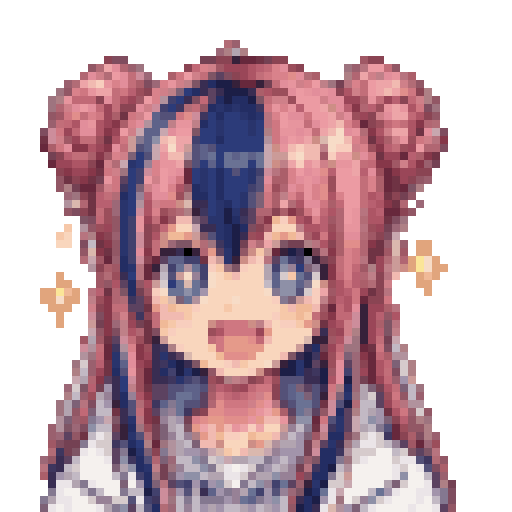
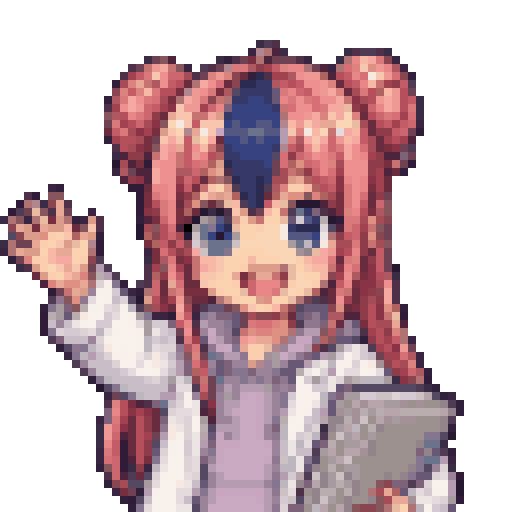
Add files via upload

diff --git a/docs/assets/chars/index.html b/docs/assets/chars/index.html
@@ -12,7 +12,7 @@
         <meta name="author" content="안상선 (Ahn, Sang-Sun)">
       
       
-        <link rel="canonical" href="https://adminmrobo.github.io/learn-python-by-doing/assets/chars/">
+        <link rel="canonical" href="https://adminmrobo.github.io/learn-python-by-doing_Korean/assets/chars/">
       
       
       
@@ -193,13 +193,13 @@
     
     
       <div class="md-header__source">
-        <a href="https://github.com/adminmrobo/learn-python-by-doing" title="저장소로 이동" class="md-source" data-md-component="source">
+        <a href="https://github.com/adminmrobo/learn-python-by-doing_Korean" title="저장소로 이동" class="md-source" data-md-component="source">
   <div class="md-source__icon md-icon">
     
     <svg xmlns="http://www.w3.org/2000/svg" viewBox="0 0 496 512"><!--! Font Awesome Free 6.6.0 by @fontawesome - https://fontawesome.com License - https://fontawesome.com/license/free (Icons: CC BY 4.0, Fonts: SIL OFL 1.1, Code: MIT License) Copyright 2024 Fonticons, Inc.--><path d="M165.9 397.4c0 2-2.3 3.6-5.2 3.6-3.3.3-5.6-1.3-5.6-3.6 0-2 2.3-3.6 5.2-3.6 3-.3 5.6 1.3 5.6 3.6m-31.1-4.5c-.7 2 1.3 4.3 4.3 4.9 2.6 1 5.6 0 6.2-2s-1.3-4.3-4.3-5.2c-2.6-.7-5.5.3-6.2 2.3m44.2-1.7c-2.9.7-4.9 2.6-4.6 4.9.3 2 2.9 3.3 5.9 2.6 2.9-.7 4.9-2.6 4.6-4.6-.3-1.9-3-3.2-5.9-2.9M244.8 8C106.1 8 0 113.3 0 252c0 110.9 69.8 205.8 169.5 239.2 12.8 2.3 17.3-5.6 17.3-12.1 0-6.2-.3-40.4-.3-61.4 0 0-70 15-84.7-29.8 0 0-11.4-29.1-27.8-36.6 0 0-22.9-15.7 1.6-15.4 0 0 24.9 2 38.6 25.8 21.9 38.6 58.6 27.5 72.9 20.9 2.3-16 8.8-27.1 16-33.7-55.9-6.2-112.3-14.3-112.3-110.5 0-27.5 7.6-41.3 23.6-58.9-2.6-6.5-11.1-33.3 2.6-67.9 20.9-6.5 69 27 69 27 20-5.6 41.5-8.5 62.8-8.5s42.8 2.9 62.8 8.5c0 0 48.1-33.6 69-27 13.7 34.7 5.2 61.4 2.6 67.9 16 17.7 25.8 31.5 25.8 58.9 0 96.5-58.9 104.2-114.8 110.5 9.2 7.9 17 22.9 17 46.4 0 33.7-.3 75.4-.3 83.6 0 6.5 4.6 14.4 17.3 12.1C428.2 457.8 496 362.9 496 252 496 113.3 383.5 8 244.8 8M97.2 352.9c-1.3 1-1 3.3.7 5.2 1.6 1.6 3.9 2.3 5.2 1 1.3-1 1-3.3-.7-5.2-1.6-1.6-3.9-2.3-5.2-1m-10.8-8.1c-.7 1.3.3 2.9 2.3 3.9 1.6 1 3.6.7 4.3-.7.7-1.3-.3-2.9-2.3-3.9-2-.6-3.6-.3-4.3.7m32.4 35.6c-1.6 1.3-1 4.3 1.3 6.2 2.3 2.3 5.2 2.6 6.5 1 1.3-1.3.7-4.3-1.3-6.2-2.2-2.3-5.2-2.6-6.5-1m-11.4-14.7c-1.6 1-1.6 3.6 0 5.9s4.3 3.3 5.6 2.3c1.6-1.3 1.6-3.9 0-6.2-1.4-2.3-4-3.3-5.6-2"/></svg>
   </div>
   <div class="md-source__repository">
-    learn-python-by-doing
+    learn-python-by-doing_Korean
   </div>
 </a>
       </div>
@@ -239,13 +239,13 @@
   </label>
   
     <div class="md-nav__source">
-      <a href="https://github.com/adminmrobo/learn-python-by-doing" title="저장소로 이동" class="md-source" data-md-component="source">
+      <a href="https://github.com/adminmrobo/learn-python-by-doing_Korean" title="저장소로 이동" class="md-source" data-md-component="source">
   <div class="md-source__icon md-icon">
     
     <svg xmlns="http://www.w3.org/2000/svg" viewBox="0 0 496 512"><!--! Font Awesome Free 6.6.0 by @fontawesome - https://fontawesome.com License - https://fontawesome.com/license/free (Icons: CC BY 4.0, Fonts: SIL OFL 1.1, Code: MIT License) Copyright 2024 Fonticons, Inc.--><path d="M165.9 397.4c0 2-2.3 3.6-5.2 3.6-3.3.3-5.6-1.3-5.6-3.6 0-2 2.3-3.6 5.2-3.6 3-.3 5.6 1.3 5.6 3.6m-31.1-4.5c-.7 2 1.3 4.3 4.3 4.9 2.6 1 5.6 0 6.2-2s-1.3-4.3-4.3-5.2c-2.6-.7-5.5.3-6.2 2.3m44.2-1.7c-2.9.7-4.9 2.6-4.6 4.9.3 2 2.9 3.3 5.9 2.6 2.9-.7 4.9-2.6 4.6-4.6-.3-1.9-3-3.2-5.9-2.9M244.8 8C106.1 8 0 113.3 0 252c0 110.9 69.8 205.8 169.5 239.2 12.8 2.3 17.3-5.6 17.3-12.1 0-6.2-.3-40.4-.3-61.4 0 0-70 15-84.7-29.8 0 0-11.4-29.1-27.8-36.6 0 0-22.9-15.7 1.6-15.4 0 0 24.9 2 38.6 25.8 21.9 38.6 58.6 27.5 72.9 20.9 2.3-16 8.8-27.1 16-33.7-55.9-6.2-112.3-14.3-112.3-110.5 0-27.5 7.6-41.3 23.6-58.9-2.6-6.5-11.1-33.3 2.6-67.9 20.9-6.5 69 27 69 27 20-5.6 41.5-8.5 62.8-8.5s42.8 2.9 62.8 8.5c0 0 48.1-33.6 69-27 13.7 34.7 5.2 61.4 2.6 67.9 16 17.7 25.8 31.5 25.8 58.9 0 96.5-58.9 104.2-114.8 110.5 9.2 7.9 17 22.9 17 46.4 0 33.7-.3 75.4-.3 83.6 0 6.5 4.6 14.4 17.3 12.1C428.2 457.8 496 362.9 496 252 496 113.3 383.5 8 244.8 8M97.2 352.9c-1.3 1-1 3.3.7 5.2 1.6 1.6 3.9 2.3 5.2 1 1.3-1 1-3.3-.7-5.2-1.6-1.6-3.9-2.3-5.2-1m-10.8-8.1c-.7 1.3.3 2.9 2.3 3.9 1.6 1 3.6.7 4.3-.7.7-1.3-.3-2.9-2.3-3.9-2-.6-3.6-.3-4.3.7m32.4 35.6c-1.6 1.3-1 4.3 1.3 6.2 2.3 2.3 5.2 2.6 6.5 1 1.3-1.3.7-4.3-1.3-6.2-2.2-2.3-5.2-2.6-6.5-1m-11.4-14.7c-1.6 1-1.6 3.6 0 5.9s4.3 3.3 5.6 2.3c1.6-1.3 1.6-3.9 0-6.2-1.4-2.3-4-3.3-5.6-2"/></svg>
   </div>
   <div class="md-source__repository">
-    learn-python-by-doing
+    learn-python-by-doing_Korean
   </div>
 </a>
     </div>
@@ -1737,37 +1737,20 @@
 <tr>
 <th>파일</th>
 <th>출처</th>
-<th>상태</th>
 </tr>
 </thead>
 <tbody>
 <tr>
-<td>doc_smile.png</td>
-<td>AI_image_classification 의 박사 그림, 64×64 격자로 다시 찍은 512×512 초상</td>
-<td>사용 중</td>
-</tr>
-<tr>
-<td>asst_smile.png</td>
-<td>AI_image_classification 의 조수 그림, 같은 64×64 격자 초상</td>
-<td>사용 중</td>
-</tr>
-<tr>
-<td>fly_point.png</td>
-<td>AI_image_classification 의 초파리 그림, 같은 64×64 격자 초상</td>
-<td>사용 중</td>
-</tr>
-<tr>
-<td>robo_idle / thinking / wrong / confused / success.png</td>
-<td>명세서 외형대로 코드로 찍은 임시 픽셀 그림, 같은 64×64 격자 초상</td>
-<td>임시. 정식 그림으로 바꿔 넣으면 된다</td>
+<td>doc_smile.png · asst_smile.png · fly_point.png · robo_idle.png</td>
+<td>작가가 만든 전신 그림 4장(<code>tools/chars_src/</code>)을 같은 64×64 격자 초상으로 다시 찍은 것</td>
 </tr>
 <tr>
 <td>../hero/hero.jpg</td>
-<td>코드로 그린 임시 대표 그림 (1200×800)</td>
-<td>임시. 정식 그림으로 바꿔 넣으면 된다</td>
+<td>작가가 만든 대표 그림 (1536×1024)</td>
 </tr>
 </tbody>
 </table>
+<p>Money-Robo 의 다른 상태(thinking · wrong · confused · success)는 아직 그림이 없어 robo_idle 로 보이고, 테두리 색으로만 상태를 알린다.</p>
 <h2 id="6">더 넣으면 쓰이는 그림 (명세서 §6)<a class="headerlink" href="#6" title="Permanent link">&para;</a></h2>
 <table>
 <thead>
@@ -1782,7 +1765,7 @@
 <td>doc_smile · doc_explain(손바닥 펴서 설명) · doc_judge(지휘봉 들어 판정) · doc_think(턱 괴기) · doc_spark(손에 보랏빛 불꽃)</td>
 </tr>
 <tr>
-<td>세라</td>
+<td>조수</td>
 <td>asst_smile · asst_why(고개 갸웃) · asst_ledger(빈 서류철 펼침) · asst_sweat(땀방울) · asst_spark(반짝이)</td>
 </tr>
 <tr>
@@ -1816,7 +1799,7 @@ centered with small margin, eyes at 25-40% from the top, no text, no letters, no
 <td>chibi scientist with round glasses, black hair with one white streak, white lab coat over a black vest and tie, big smile, <strong>plain navy waistcoat over the lab coat, holding a blank wooden pointer stick</strong></td>
 </tr>
 <tr>
-<td>세라</td>
+<td>조수</td>
 <td>girl researcher with pink hair in two round buns and a navy streak, blue eyes, lavender hoodie under a white lab coat, jeans, <strong>blank ID badge on a lanyard with no text, holding a plain closed ledger folder</strong></td>
 </tr>
 <tr>
@@ -1836,7 +1819,7 @@ same size, plain white background, at least 60px gap between figures:
 (1) ... (2) ... (3) ... (4) ... (5) ...   3000 x 800 px.
 </code></pre></div>
 - 박사: (1) big smile (2) open palm explaining (3) raising the pointer to give a verdict (4) hand on chin thinking (5) purple sparks from the hands, excited
-- 세라: (1) gentle smile (2) head tilted, puzzled (3) opening the blank ledger folder, reporting (4) sweat drop, tired (5) sparkles, delighted
+- 조수: (1) gentle smile (2) head tilted, puzzled (3) opening the blank ledger folder, reporting (4) sweat drop, tired (5) sparkles, delighted
 - 초파리: (1) pointing forward (2) one eye narrowed, doubtful (3) looking through the magnifying glass (4) arms crossed (5) holding a coffee cup, relaxed
 - Money-Robo: (1) idle round yellow eyes, blue chest light (2) loading dots on the screen, yellow chest light (3) red X on the screen, red chest light (4) yellow scribble swirl and sweat drop, blinking yellow chest light (5) green check mark, sparkles, arms raised, green chest light</p>
 <p>대표 그림 (hero.jpg, 1200×800)
